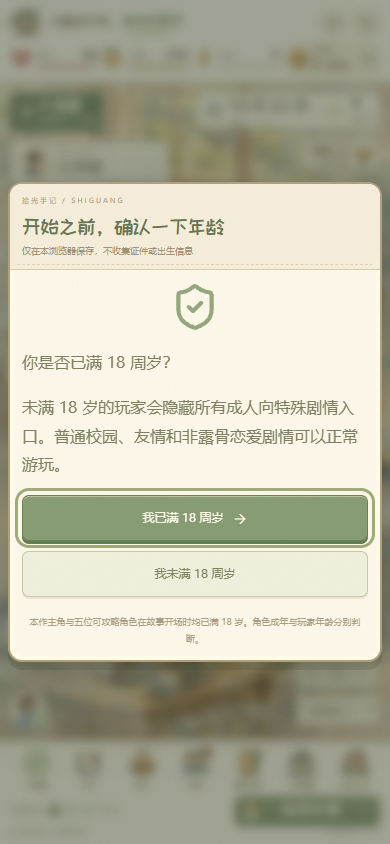
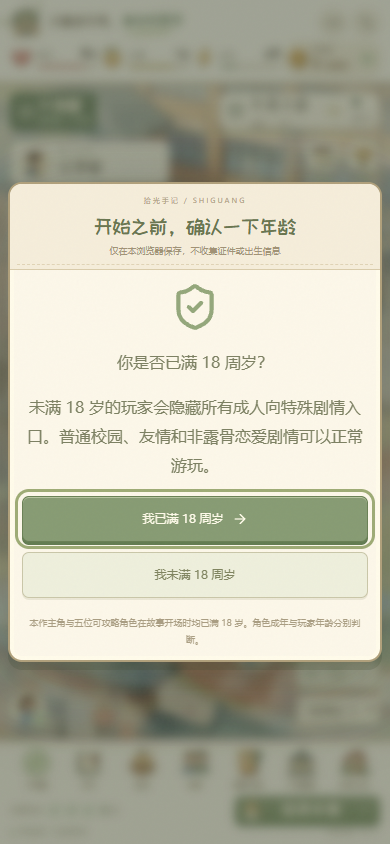
fix: center age confirmation text

diff --git a/src/App.tsx b/src/App.tsx
@@ -320,7 +320,7 @@ export default function App() {
         <div className={`campus-dialogue ${dialogueExpanded ? "is-expanded" : "is-collapsed"}`}><button className="dialogue-avatar" onClick={() => setDialogueExpanded(value => !value)} aria-expanded={dialogueExpanded} aria-controls="companion-dialogue" aria-label={dialogueExpanded ? `收起${companion.name}的对话` : `展开${companion.name}的对话`} title={dialogueExpanded ? "收起为头像" : `点击和${companion.name}聊聊`}><img src={imagePath(companion.image)} alt={companion.name}/><span className="dialogue-avatar-flower"><Leaf size={12}/></span></button><div className="dialogue-body" id="companion-dialogue"><div className="dialogue-name"><strong>{companion.name}</strong><span>{game.social.partner ? game.romance.escort ? "恋人 · 正在同行" : "恋人 · 我们的故事" : "你的同桌"}</span><i><Heart size={10} fill="currentColor"/><Heart size={10} fill="currentColor"/><Heart size={10} fill="currentColor"/></i></div><AnimatePresence mode="wait"><motion.p key={speech} initial={{ opacity: 0, y: 4 }} animate={{ opacity: 1, y: 0 }} exit={{ opacity: 0 }} transition={{ duration: 0.22 }}>{game.phase === 'ending' ? '我们真的走到夏天啦。以后的日子，愿你有自己的答案，也有随时可以回来的地方。' : game.social.partner ? "今天也认真照顾自己。想相处、约会或聊聊心事，都可以来找我。" : playerText(game, speech)}</motion.p></AnimatePresence></div><button className="dialogue-action" onClick={() => { if (!game.started) open('start'); else if (game.phase !== 'school') advanceButton(); else if (game.social.partner) showRomance(game.social.partner); else goToPlace('classroom'); }}>{!game.started ? '去教室看看' : game.phase === 'school' ? game.social.partner ? '我们的故事' : '去上课' : '看看下一站'}<ArrowRight size={16}/></button><button className="dialogue-collapse" onClick={() => setDialogueExpanded(false)} aria-label="收起苏晓的横幅" title="收起为头像"><X size={16}/></button><span className="dialogue-corner"/></div>
       </main>
 
-      <footer className="game-footer"><div className="footer-main"><nav className="game-dock" aria-label="游戏导航">{NAV_ITEMS.map(item => { const active = item.scene ? scene === item.scene && !effectivePanel : effectivePanel === item.panel; return <motion.button className={`dock-item ${active ? 'active' : ''}`} key={item.id} onClick={() => item.scene ? changeScene(item.scene) : open(item.panel ?? null)} whileHover={{ y: -4 }} whileTap={{ scale: 0.95 }} aria-current={active ? 'page' : undefined}><span className="dock-icon">{item.id === 'world-map' ? <Compass className="dock-map-compass" size={48} strokeWidth={1.3}/> : <GameIcon name={item.icon} size={51}/>}{item.id === 'messages' && unread > 0 && <b className="dock-unread">{unread > 9 ? '9+' : unread}</b>}{item.id === 'bag' && Object.values(game.inventory).some(value => value > 0) && <i className="dock-dot"/>}</span><strong>{item.name}</strong>{active && <motion.i layoutId="dock-active" className="dock-active-dot"/>}</motion.button>; })}</nav><div className="footer-divider"/><div className="next-week-control"><div className="action-counter"><span>本周行动</span><div>{[0, 1, 2].map(index => <span className={index < game.actions ? 'used' : ''} key={index}><Leaf size={12}/></span>)}</div><b>{game.actions}<small>/3</small></b></div><motion.button className="next-week-button" whileHover={{ y: -2 }} whileTap={{ y: 2 }} onClick={advanceButton}><GameIcon name={game.phase === 'school' ? 'moon' : 'letter'} size={39}/><span><strong>{game.phase === 'school' ? '结束本周' : game.phase === 'exam' ? '走进考场' : game.phase === 'application' ? '填报我的志愿' : '我的毕业纪念'}</strong><small>{game.phase === 'school' ? '好好休息，再向前一步' : '未来这一页，由自己来写'}</small></span><ChevronRight size={20}/></motion.button></div></div><div className="footer-bottom"><button className={`autosave-status ${saved ? '' : 'save-failed'}`} onClick={() => open('saves')}><span/>{saved ? '本地存档 · 已自动保存' : '自动保存失败 · 请导出备份'}</button><span className="footer-motto"><Leaf size={11}/>好好生活，也是一种了不起的努力。</span><span className="version-label">拾光校园 · v2.7.0</span></div></footer>
+      <footer className="game-footer"><div className="footer-main"><nav className="game-dock" aria-label="游戏导航">{NAV_ITEMS.map(item => { const active = item.scene ? scene === item.scene && !effectivePanel : effectivePanel === item.panel; return <motion.button className={`dock-item ${active ? 'active' : ''}`} key={item.id} onClick={() => item.scene ? changeScene(item.scene) : open(item.panel ?? null)} whileHover={{ y: -4 }} whileTap={{ scale: 0.95 }} aria-current={active ? 'page' : undefined}><span className="dock-icon">{item.id === 'world-map' ? <Compass className="dock-map-compass" size={48} strokeWidth={1.3}/> : <GameIcon name={item.icon} size={51}/>}{item.id === 'messages' && unread > 0 && <b className="dock-unread">{unread > 9 ? '9+' : unread}</b>}{item.id === 'bag' && Object.values(game.inventory).some(value => value > 0) && <i className="dock-dot"/>}</span><strong>{item.name}</strong>{active && <motion.i layoutId="dock-active" className="dock-active-dot"/>}</motion.button>; })}</nav><div className="footer-divider"/><div className="next-week-control"><div className="action-counter"><span>本周行动</span><div>{[0, 1, 2].map(index => <span className={index < game.actions ? 'used' : ''} key={index}><Leaf size={12}/></span>)}</div><b>{game.actions}<small>/3</small></b></div><motion.button className="next-week-button" whileHover={{ y: -2 }} whileTap={{ y: 2 }} onClick={advanceButton}><GameIcon name={game.phase === 'school' ? 'moon' : 'letter'} size={39}/><span><strong>{game.phase === 'school' ? '结束本周' : game.phase === 'exam' ? '走进考场' : game.phase === 'application' ? '填报我的志愿' : '我的毕业纪念'}</strong><small>{game.phase === 'school' ? '好好休息，再向前一步' : '未来这一页，由自己来写'}</small></span><ChevronRight size={20}/></motion.button></div></div><div className="footer-bottom"><button className={`autosave-status ${saved ? '' : 'save-failed'}`} onClick={() => open('saves')}><span/>{saved ? '本地存档 · 已自动保存' : '自动保存失败 · 请导出备份'}</button><span className="footer-motto"><Leaf size={11}/>好好生活，也是一种了不起的努力。</span><span className="version-label">拾光校园 · v2.7.1</span></div></footer>
     </div>
 
     <GameNoticeContext value={toast ? { text: toast.text, dismiss: () => setToast(null) } : null}><AnimatePresence mode="wait">{effectivePanel === 'age' ? <AgeGate key="age-gate" audience={audience} onChoose={age => { setAudience(current => ({ ...current, age })); setPanel(null); }}/> : effectivePanel === 'romance-story' ? <RomanceStoryModal key={`${game.romance.active?.id}-${game.romance.active?.week}`} game={game} setGame={setGame} audience={audience} setAudience={setAudience} notify={notify}/> : effectivePanel === 'world-map' ? <WorldMap key="world-map" game={game} scene={scene} onScene={changeScene} onClose={close}/> : effectivePanel && <GamePanels key={effectivePanel === 'event' ? game.pendingEvent : effectivePanel} panel={effectivePanel} game={game} setGame={setGame} settings={settings} setSettings={setSettings} place={place} open={open} onClose={close} onAction={doAction} onMeet={meet} onVisitPlace={goToPlace} onStory={readMapStory} onStart={start} onNextWeek={nextWeek} onPlan={runPlan} onChoice={choose} onUse={useItem} onBuy={buyItem} onGift={gift} onReply={reply} onInitiate={initiate} onNavigateTask={navigateTask} onConfess={confess} onRomance={showRomance} audience={audience} setAudience={setAudience} onChat={chat} chatContact={chatContact} onLoad={load} onScene={changeScene} notify={notify}/>}</AnimatePresence></GameNoticeContext>

diff --git a/src/romance.css b/src/romance.css
@@ -1,4 +1,6 @@
 .age-gate, .content-warning { display: grid; gap: 16px; color: #7c8062; line-height: 1.8; }
+.age-modal .modal-heading > div { width: 100%; text-align: center; }
+.age-gate { text-align: center; }
 .modal-status { display: flex; align-items: center; gap: 12px; padding: 8px clamp(12px, 2.5vw, 26px); border-bottom: 1px dashed #d3cfb1; background: #eef1dc; color: #829469; flex-shrink: 0; max-height: 20dvh; overflow-y: auto; }
 .modal-status p { margin: 0; flex: 1; min-width: 0; overflow-wrap: anywhere; font-size: 11px; line-height: 1.6; }
 .modal-status button { flex-shrink: 0; padding: 4px; color: #899b75; }

diff --git a/public/sw.js b/public/sw.js
@@ -1,4 +1,4 @@
-const CACHE = 'shiguang-campus-v2.7.0';
+const CACHE = 'shiguang-campus-v2.7.1';
 // Works both at the domain root and under a repository sub-path (GitHub Pages project sites).
 const BASE = new URL(self.registration.scope).pathname;
 const ART = ['campus', 'student', 'companion', 'teacher', 'mother', 'friend', 'classroom', 'home', 'city', 'graduation'];
